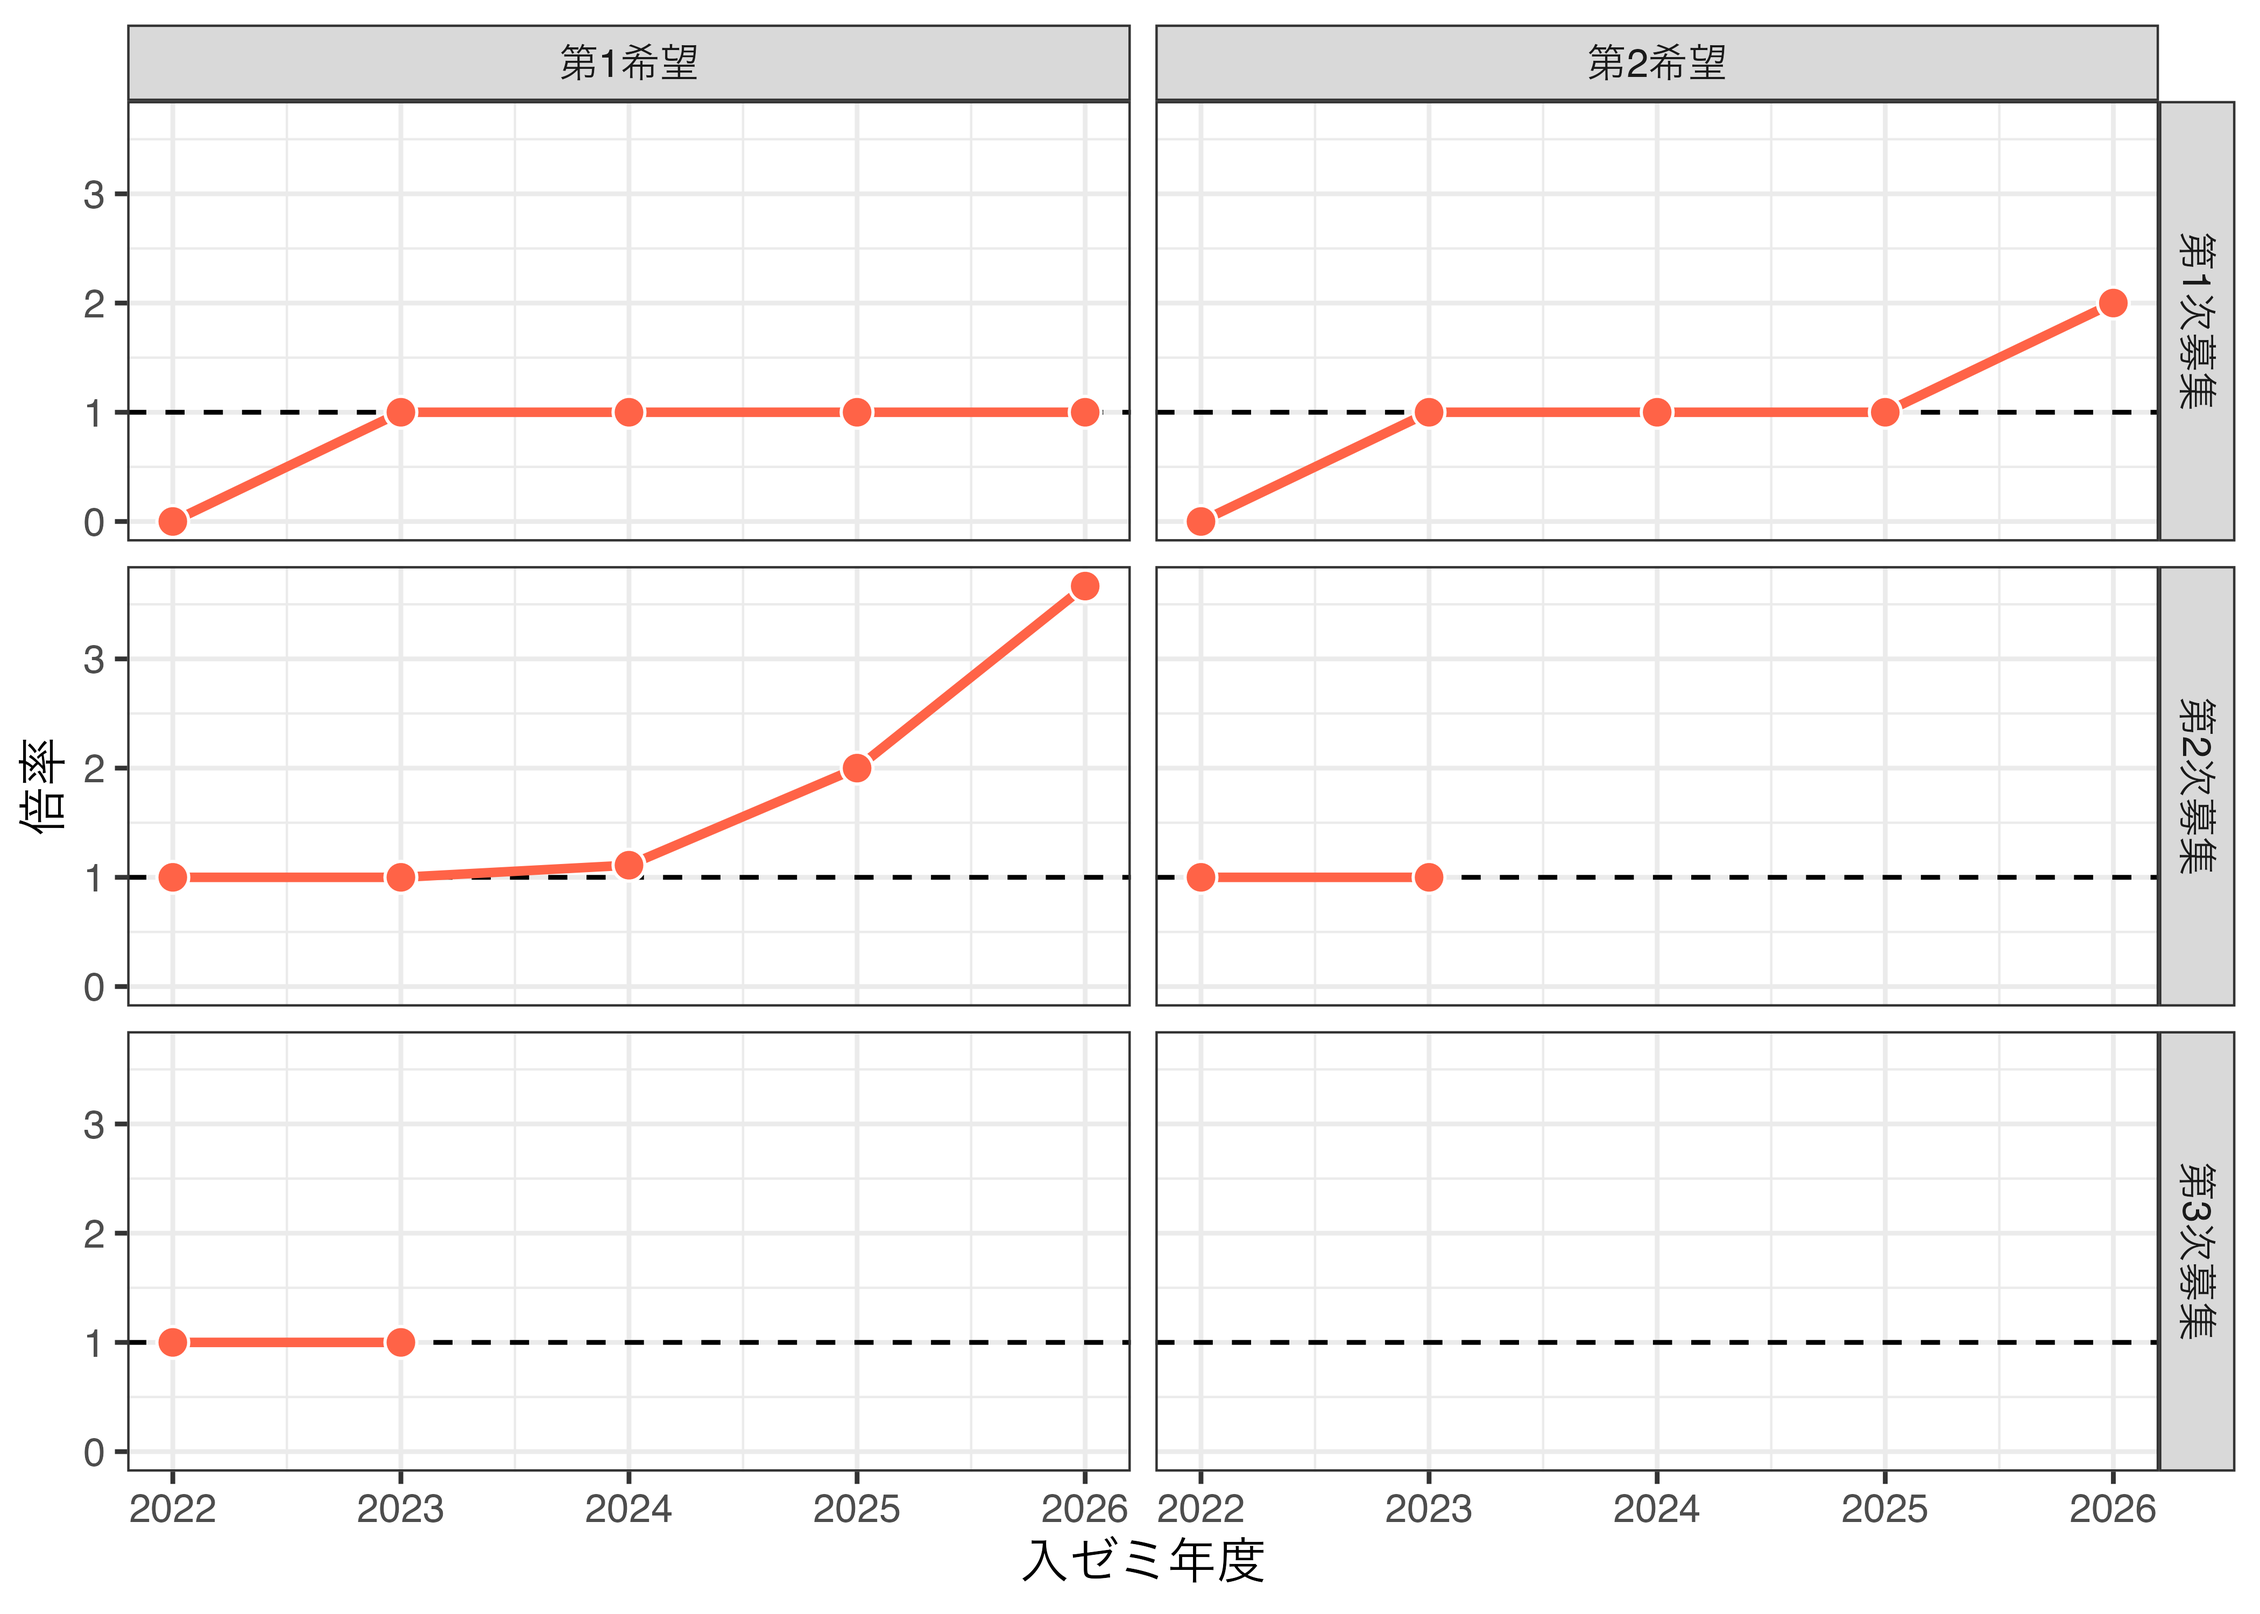
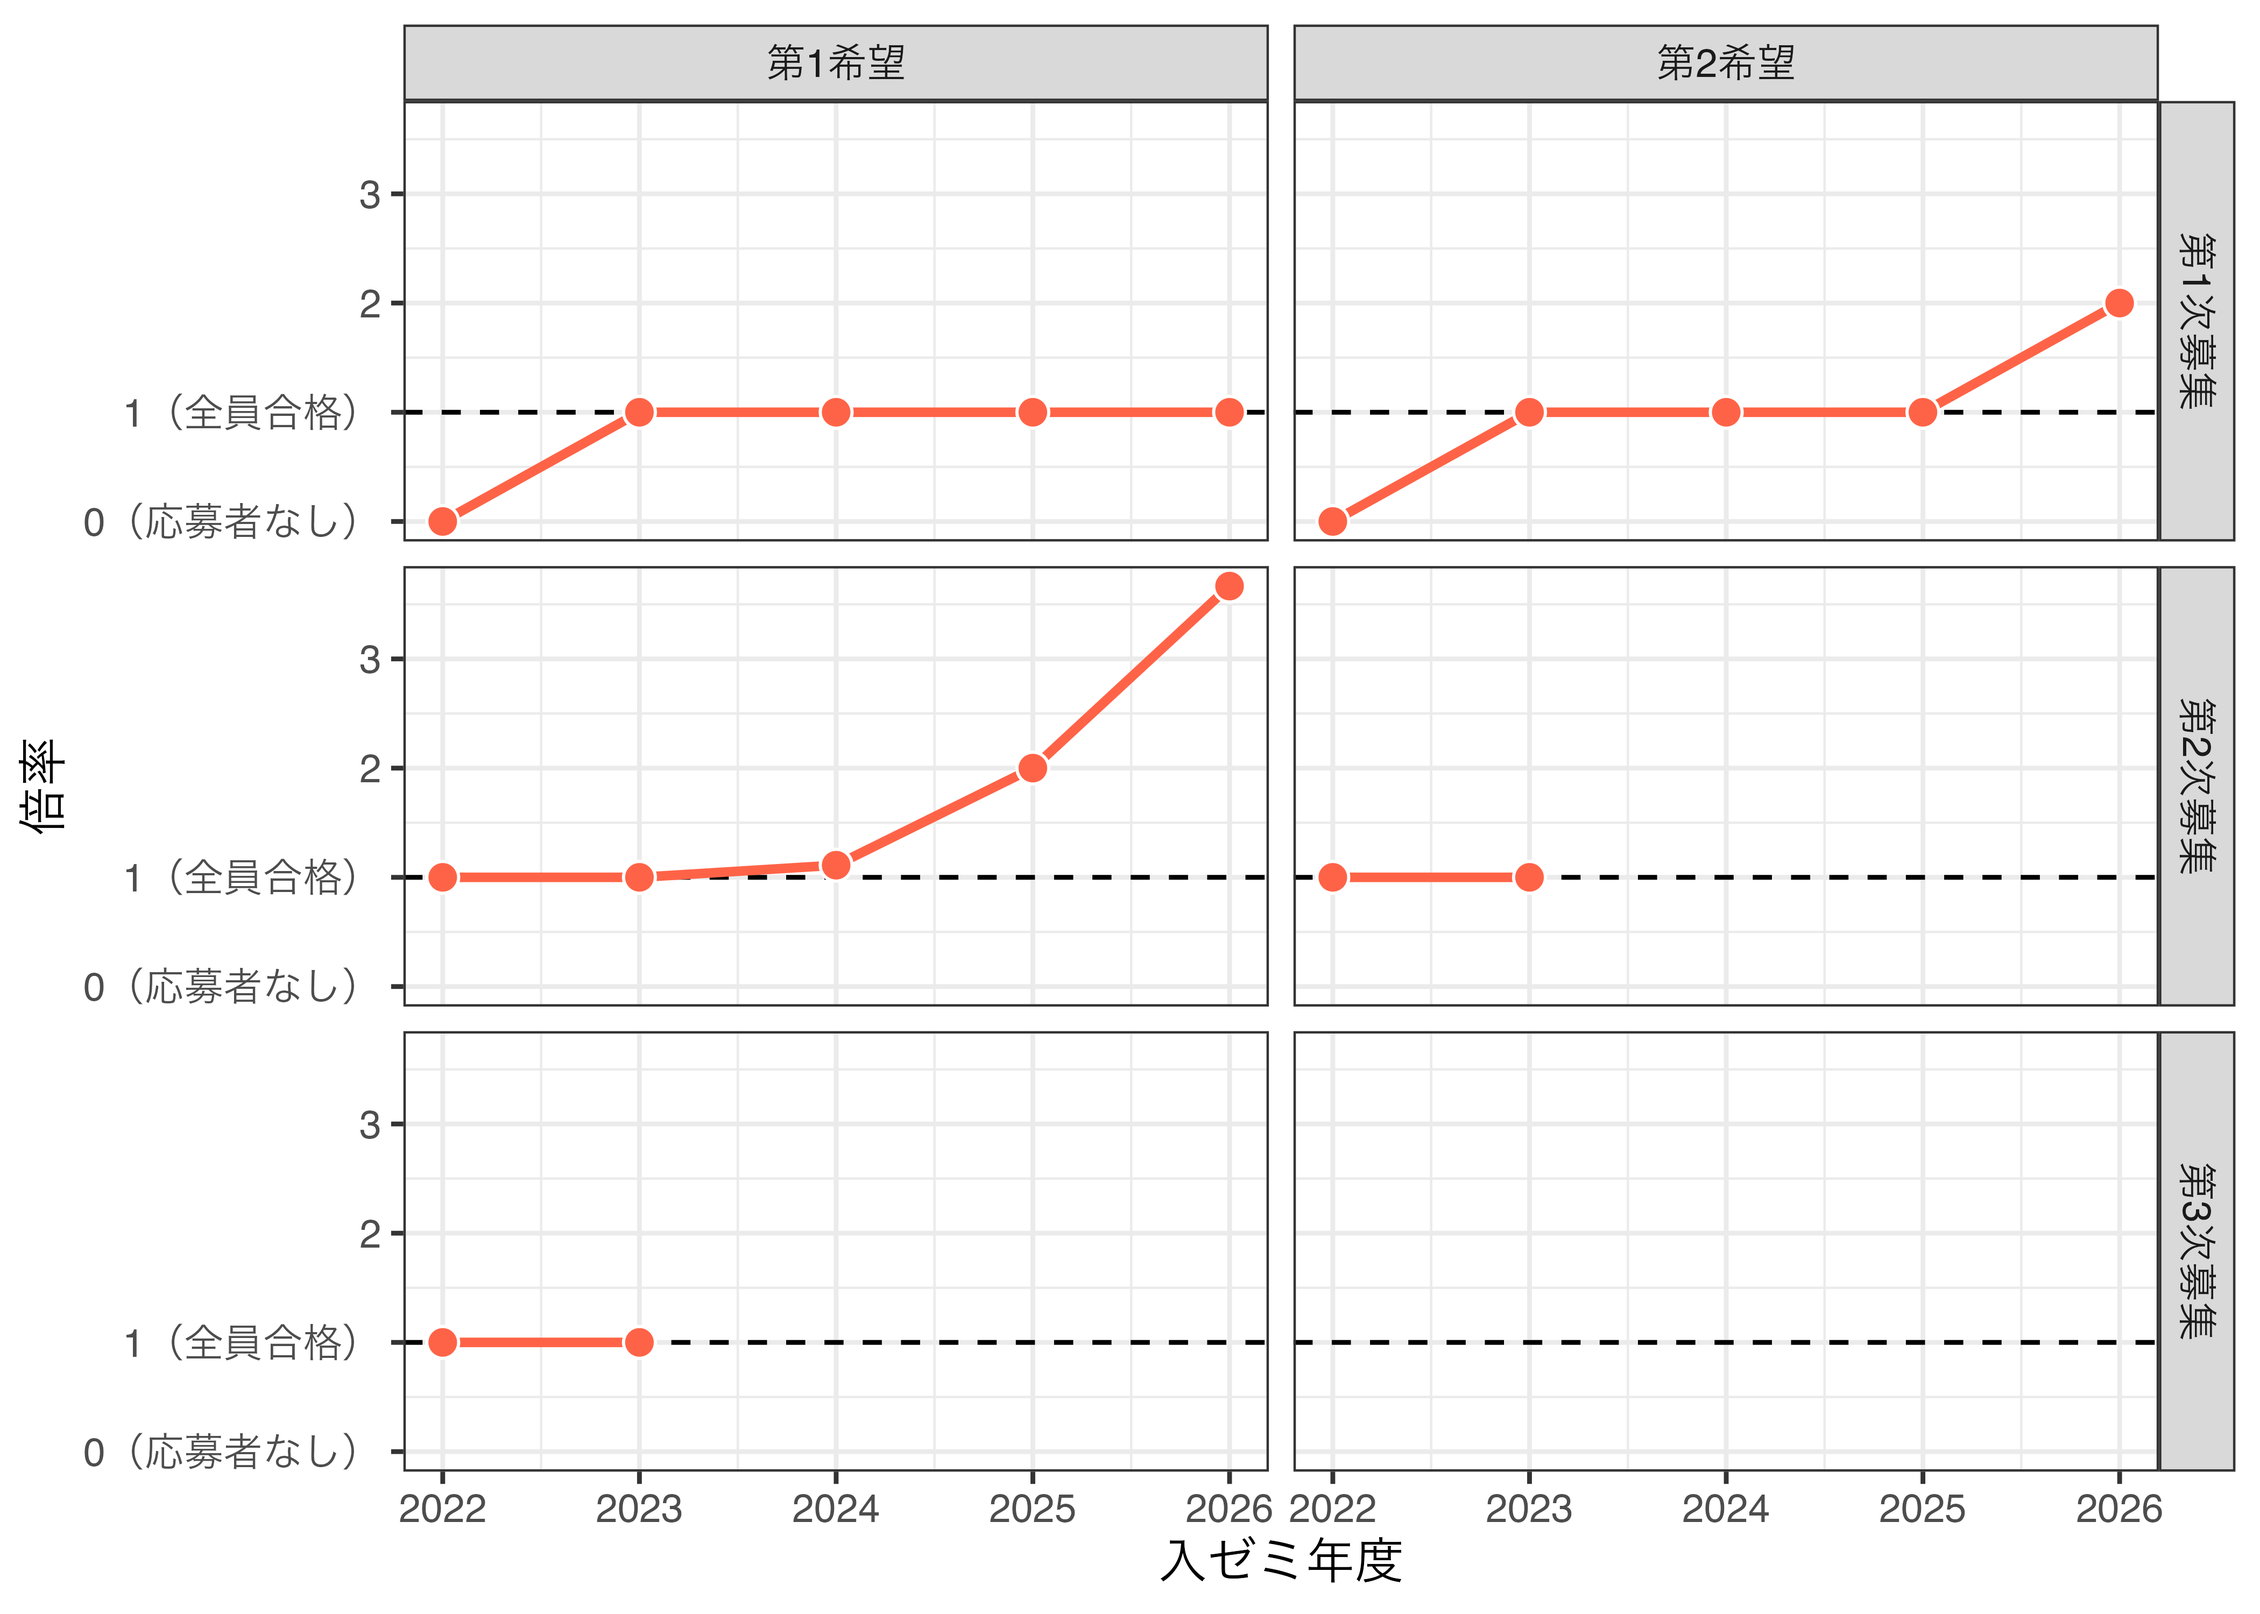
no message

diff --git a/docs/seminar/competition.html b/docs/seminar/competition.html
@@ -331,7 +331,7 @@ gtag('config', 'G-BCE61P2YP7', { 'anonymize_ip': true});
 </div>
 <div id="callout-1" class="callout-1-contents callout-collapse collapse">
 <div class="callout-body-container callout-body">
-<p>倍率が1以下の場合は全員合格を意味します。</p>
+<p>点・線がない箇所は定員到達による募集なしを意味します。</p>
 <div class="cell">
 <div class="cell-output-display">
 <div>
